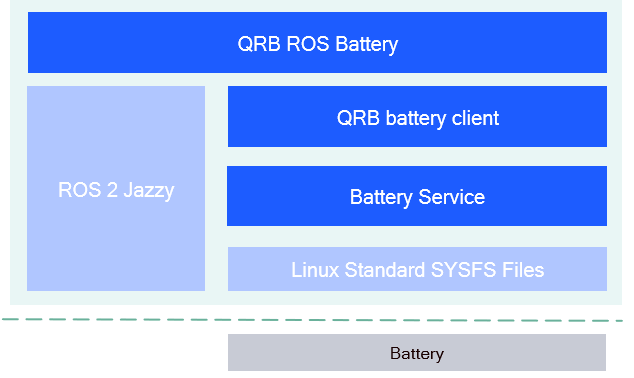
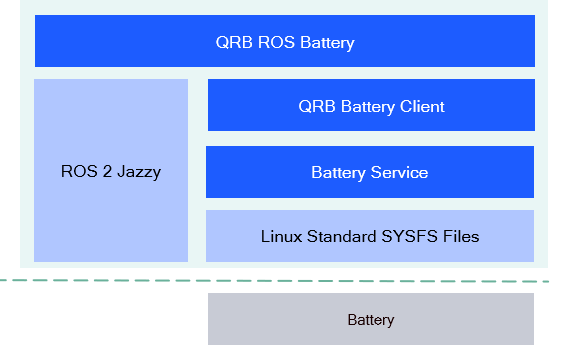
feat: update qrb_battery_client 's api to comply with the specifications

Changed region(s): [[0.0, 0.0312, 0.9842, 0.9972], [0.3579, 0.0935, 0.6263, 0.1558]]

diff --git a/README.md b/README.md
@@ -14,9 +14,7 @@
 
 ## 👋 Overview
 
-The [QRB ROS Battery](https://github.com/qualcomm-qrb-ros/qrb_ros_battery) is a ROS package that publishes battery state data from system node. It provides:
-
-- publish battery state data.
+The [QRB ROS Battery](https://github.com/qualcomm-qrb-ros/qrb_ros_battery) is a ROS package that publishes battery state data from system node.
 
 <div align="center">
   <img src="./docs/assets/architecture.png" alt="architecture">
@@ -28,19 +26,14 @@ The [`qrb_ros_battery`](https://github.com/qualcomm-qrb-ros/qrb_ros_battery/tree
 
 The [`qrb_battery_client`](https://github.com/qualcomm-qrb-ros/qrb_ros_battery/tree/main/qrb_battery_client) is a C++ library, it provides APIs to `qrb_ros_battery` for querying battery state data from lower layer `Battery Service`.
 
-The `Battery Service` is Qualcomm battery framework, it exports APIs for accessing Qualcomm-powered device 's battery state.
+The `Battery Service` is a background service designed to provide APIs for client-side access and get battery state data.
 
 ## 🔎 Table of contents
 - [APIs](#-apis)
-  - [🔹 `qrb_ros_battery` APIs](#-qrb_ros_battery-apis)
-  - [🔹 `qrb_battery_client` APIs](#-qrb_battery_client-apis)
 - [Supported targets](#-supported-targets)
 - [Installation](#-installation)
 - [Usage](#-usage)
-  - [Start the battery node](#start-the-battery-node)
 - [Build from source](#-build-from-source)
-  - [Dependencies](#dependencies)
-  - [Build](#build)
 - [Contributing](#-contributing)
 - [Contributors](#-contributors)
 - [FAQs](#-faqs)
@@ -150,6 +143,35 @@ ros2 topic list
 /battery_stats
 ```
 
+### The output of the topic
+
+Here just a example for the topic output.
+
+```bash
+header:
+  stamp:
+      sec: 1756810050
+      nanosec: 208103261
+  frame_id: battery_stats
+voltage: 4259866.0
+temperature: 250.0
+current: -134584.0
+charge: 3360600.0
+capacity: 100.0
+design_capacity: -1.0
+percentage: 100.0
+power_supply_status: 2
+power_supply_health: 1
+power_supply_technology: 2
+present: true
+cell_voltage:
+- 4259866.0
+cell_temperature:
+- 250.0
+location: battery_stats
+serial_number: battery_stats
+```
+
 ---
 
 ## 👨💻 Build from source
@@ -196,7 +218,7 @@ Thanks to all our contributors who have helped make this project better!
 ## ❔ FAQs
 
 <details>
-<summary><strong>Why do I see the battery ros node error exit?</strong></summary>
+<summary><strong>Why do I see the battery ros node exit with `invalid_argument` error?</strong></summary>
 
 - Please ensure that the battery service is running.
 </details>

diff --git a/CHANGELOG.md b/CHANGELOG.md
@@ -1,5 +1,10 @@
 # Changelog for package qrb_ros_battery
 
+## 2.0.0 (2025-8-29)
+
+- Update the API interface to comply with the specifications.
+- Contributors: Zhanye Lin
+
 ## 1.0.0 (2024-12-26)
 
 - Initial version release for Humble
